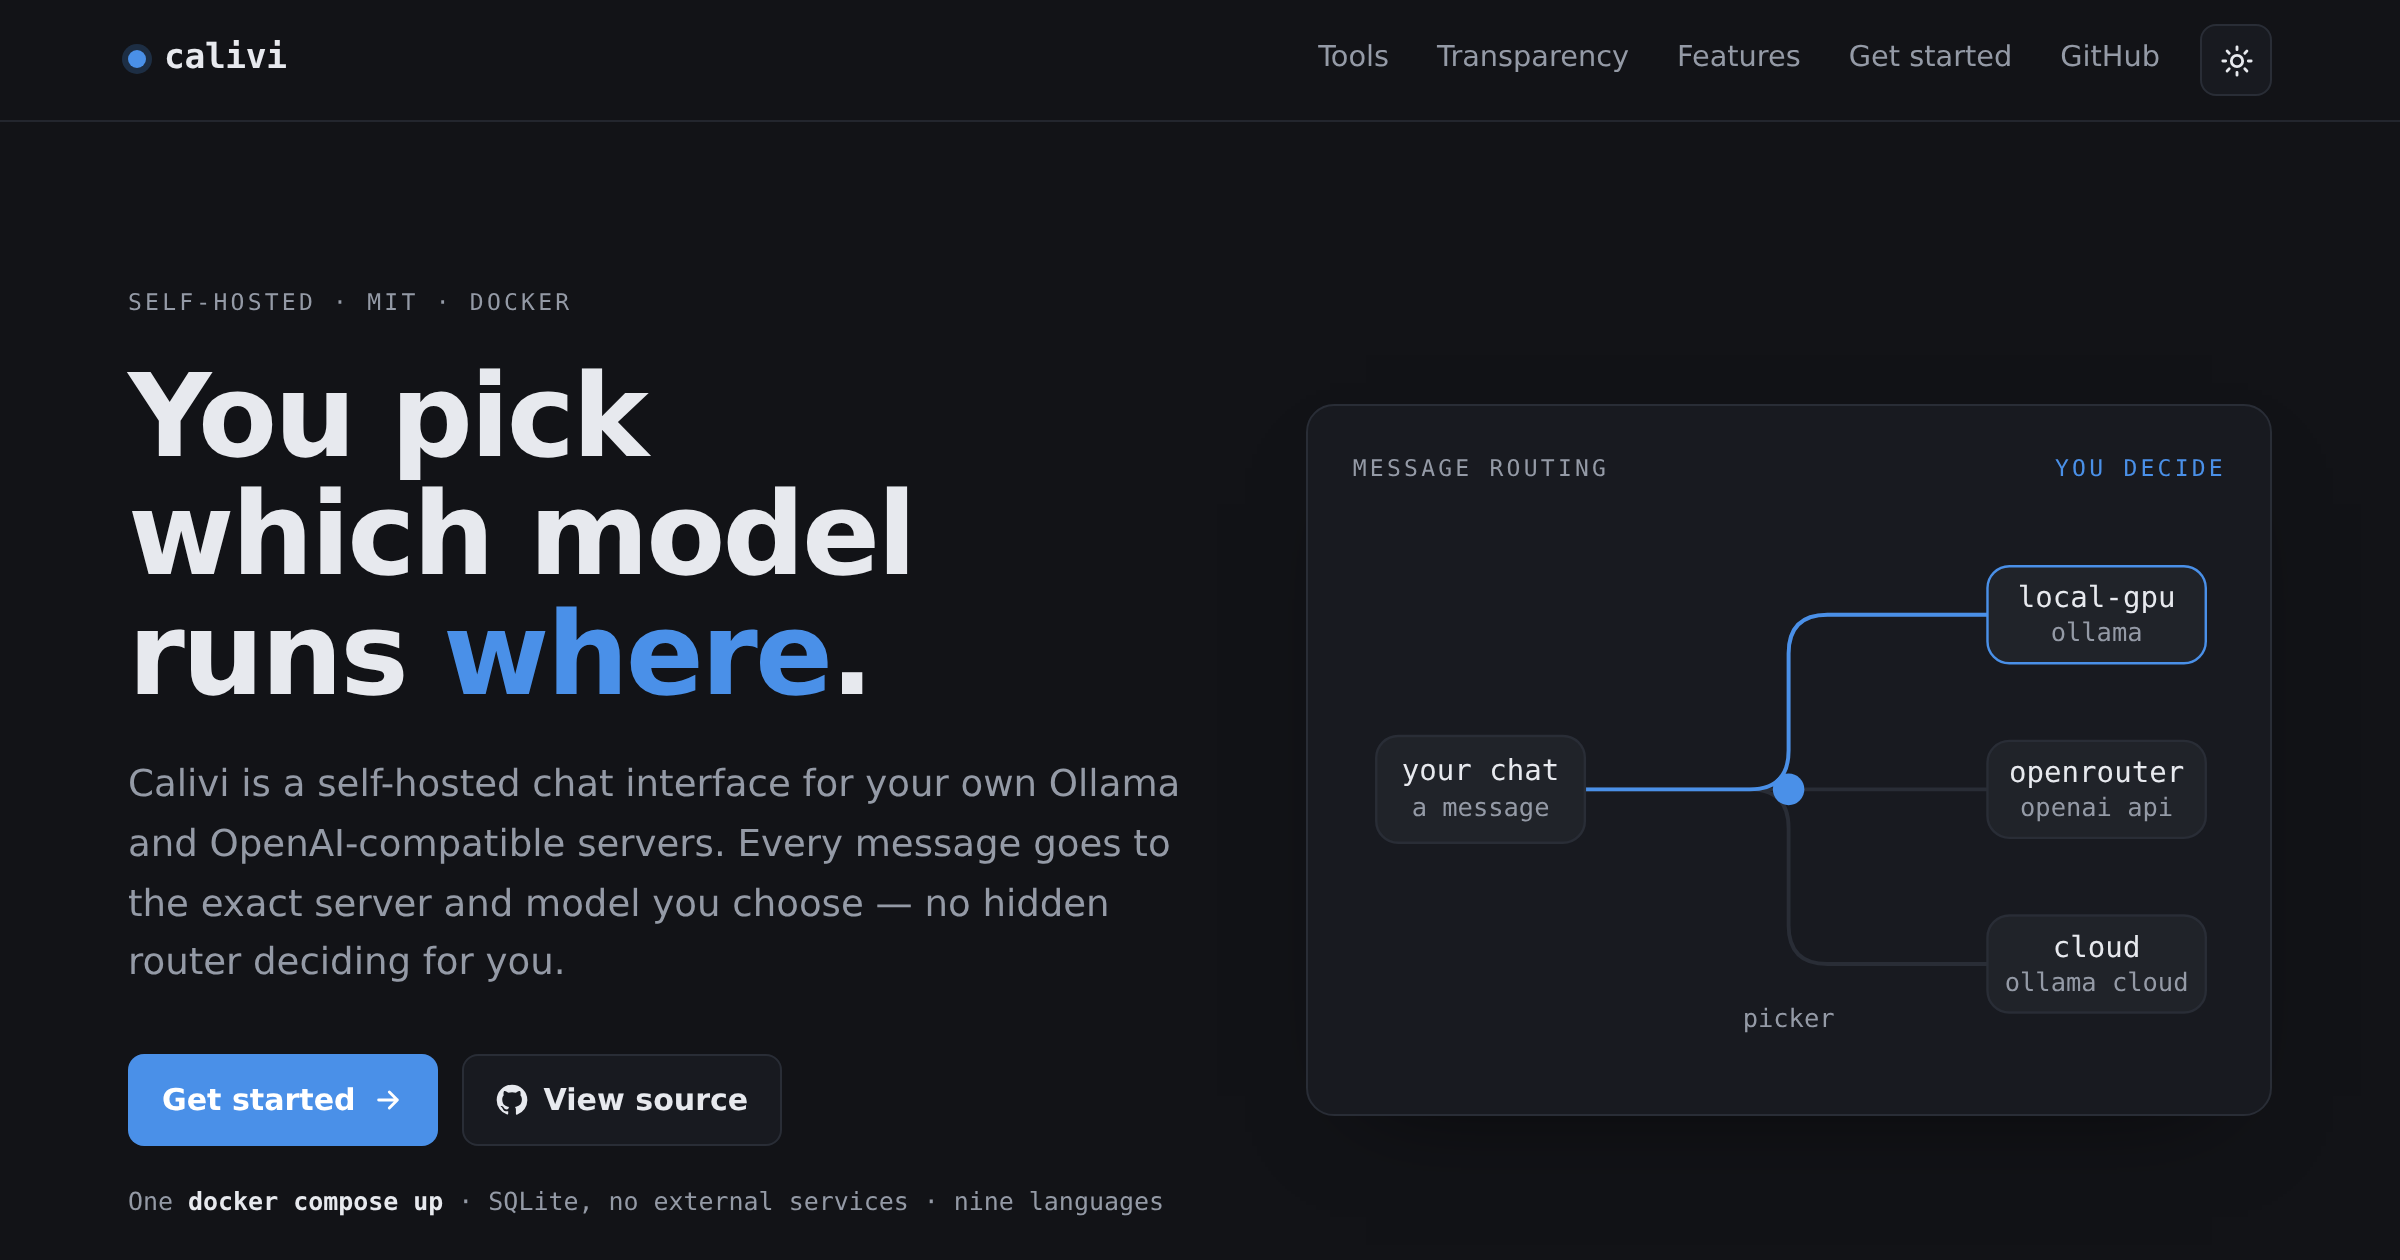
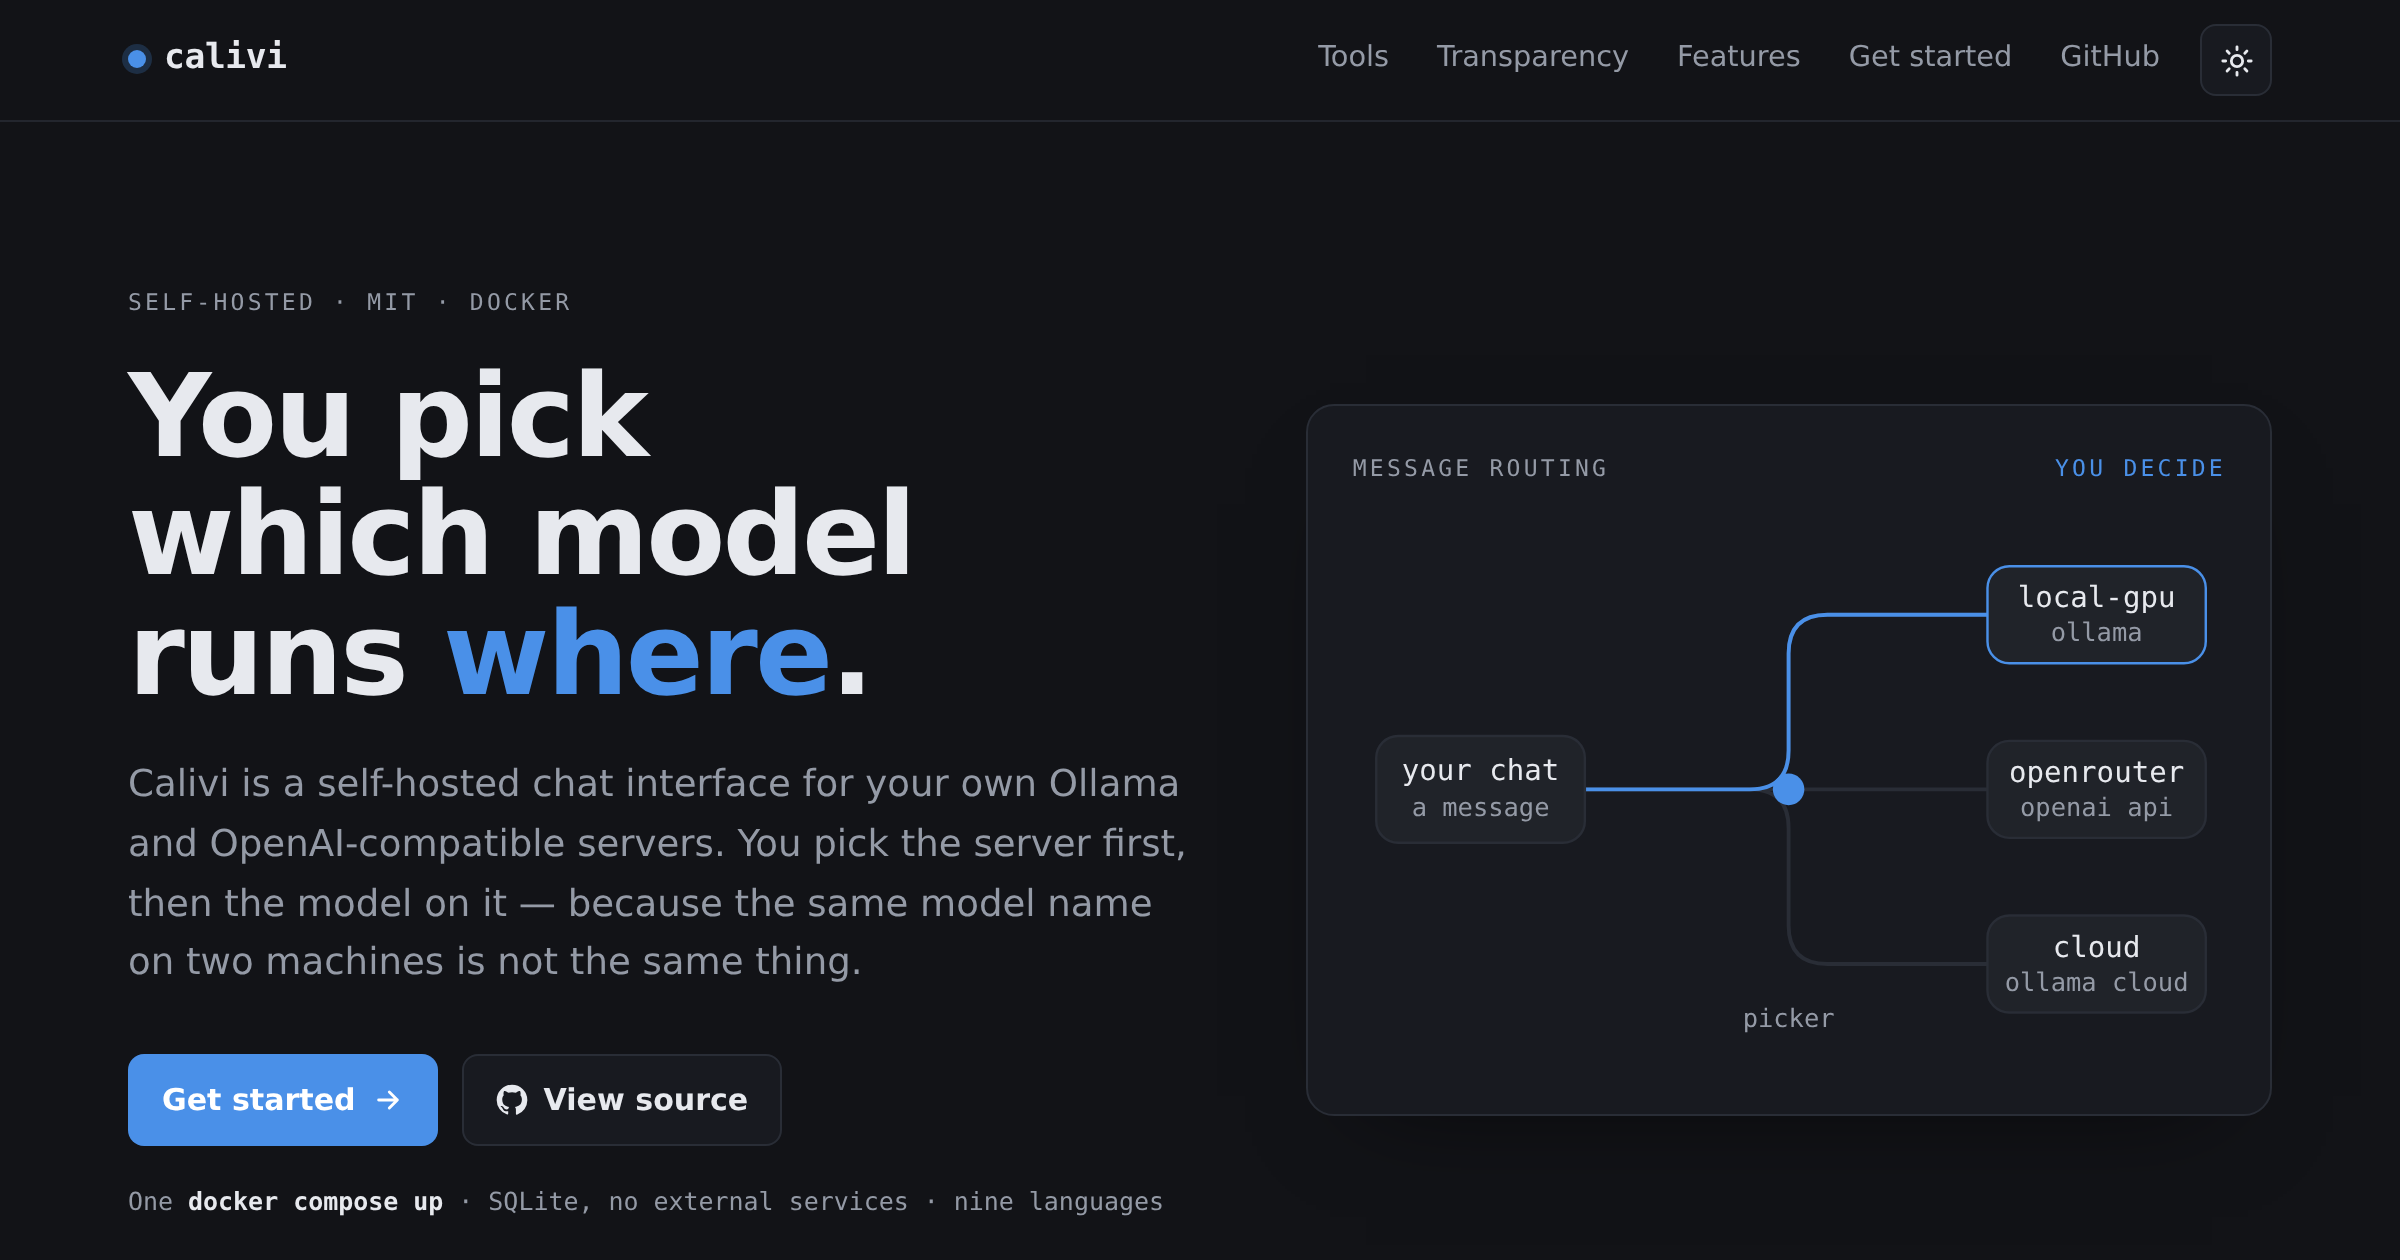
docs: drop the comparative routing claims from the README and the site (#41)
"No hidden routing", "no hidden router deciding for you" and "no auto-router
second-guessing you" all say something about other tools rather than about this
one, and what they imply does not hold up.

Open WebUI assigns a Prefix ID per connection, so two Ollama instances serving
the same model appear separately in its picker as gpu1.llama3 and gpu2.llama3 —
its own docs recommend exactly that for this case. Its random instance selection
is opt-in load balancing that only engages when model IDs and prefixes are made
identical on purpose. LibreChat names each custom endpoint with its own baseURL,
and they show up as distinct entries too. Explicit server selection is not
something Calivi alone offers, and claiming it — even by implication — is the
kind of line one counterexample destroys, taking the credibility of everything
around it.

What is actually worth saying is why the choice matters, so that is what the copy
says now: pick the server first, then the model on it, because the same model
name on two machines is not the same thing. Different VRAM, different runtime,
different power draw, and one of them may already have the weights warm.

The routing feature card now describes the probe instead: only servers that
answered their last probe appear, so a sleeping box cannot be picked by mistake.
That is a real behaviour of this app rather than a jab at another one.

`no automatic routing` in the README's Highlights is left alone — it states that
[…]

Changed region(s): [[0.0625, 0.65, 0.5, 0.7738]]

diff --git a/docs/index.html b/docs/index.html
@@ -4,7 +4,7 @@
 <meta charset="utf-8" />
 <meta name="viewport" content="width=device-width, initial-scale=1" />
 <title>Calivi — self-hosted chat for Ollama &amp; OpenAI-compatible servers</title>
-<meta name="description" content="Calivi is a self-hosted chat interface for your own Ollama and OpenAI-compatible servers. You pick which model runs where — no hidden routing." />
+<meta name="description" content="Calivi is a self-hosted chat interface for your own Ollama and OpenAI-compatible servers. You pick which model runs where: the server first, then the model on it." />
 <link rel="canonical" href="https://calivi.ai/" />
 <meta property="og:type" content="website" />
 <meta property="og:url" content="https://calivi.ai/" />
@@ -435,8 +435,8 @@
       <h1>You pick which model<br />runs <span class="em">where</span>.</h1>
       <p class="lede">
         Calivi is a self-hosted chat interface for your own Ollama and OpenAI-compatible
-        servers. Every message goes to the exact server and model you choose — no hidden
-        router deciding for you.
+        servers. You pick the server first, then the model on it — because the same model
+        name on two machines is not the same thing.
       </p>
       <div class="cta-row">
         <a class="btn btn-primary" href="#start">Get started
@@ -803,7 +803,7 @@ Source: https://github.com/pydantic/pydantic/blob/main/pydantic/functional_valid
       <div class="feat">
         <span class="fl">Routing</span>
         <h3>Manual, always</h3>
-        <p>Choose the server and model from the top bar for every message. Only reachable servers appear — no auto-router second-guessing you.</p>
+        <p>Choose the server and model from the top bar for every message. Only servers that answered their last probe appear, so a box that is asleep or unreachable cannot be picked by mistake.</p>
       </div>
       <div class="feat">
         <span class="fl">Backends</span>

diff --git a/README.md b/README.md
@@ -1,7 +1,7 @@
 # calivi
 
 A self-hosted, multi-user chat interface for Ollama and OpenAI-compatible servers.
-You pick which model runs where — no hidden routing.
+You pick which model runs where: the server first, then the model on it.
 
 Your own GPU box, Ollama Cloud, OpenRouter, Moonshot, LM Studio, vLLM,
 llama.cpp-server — all from the same chat window.